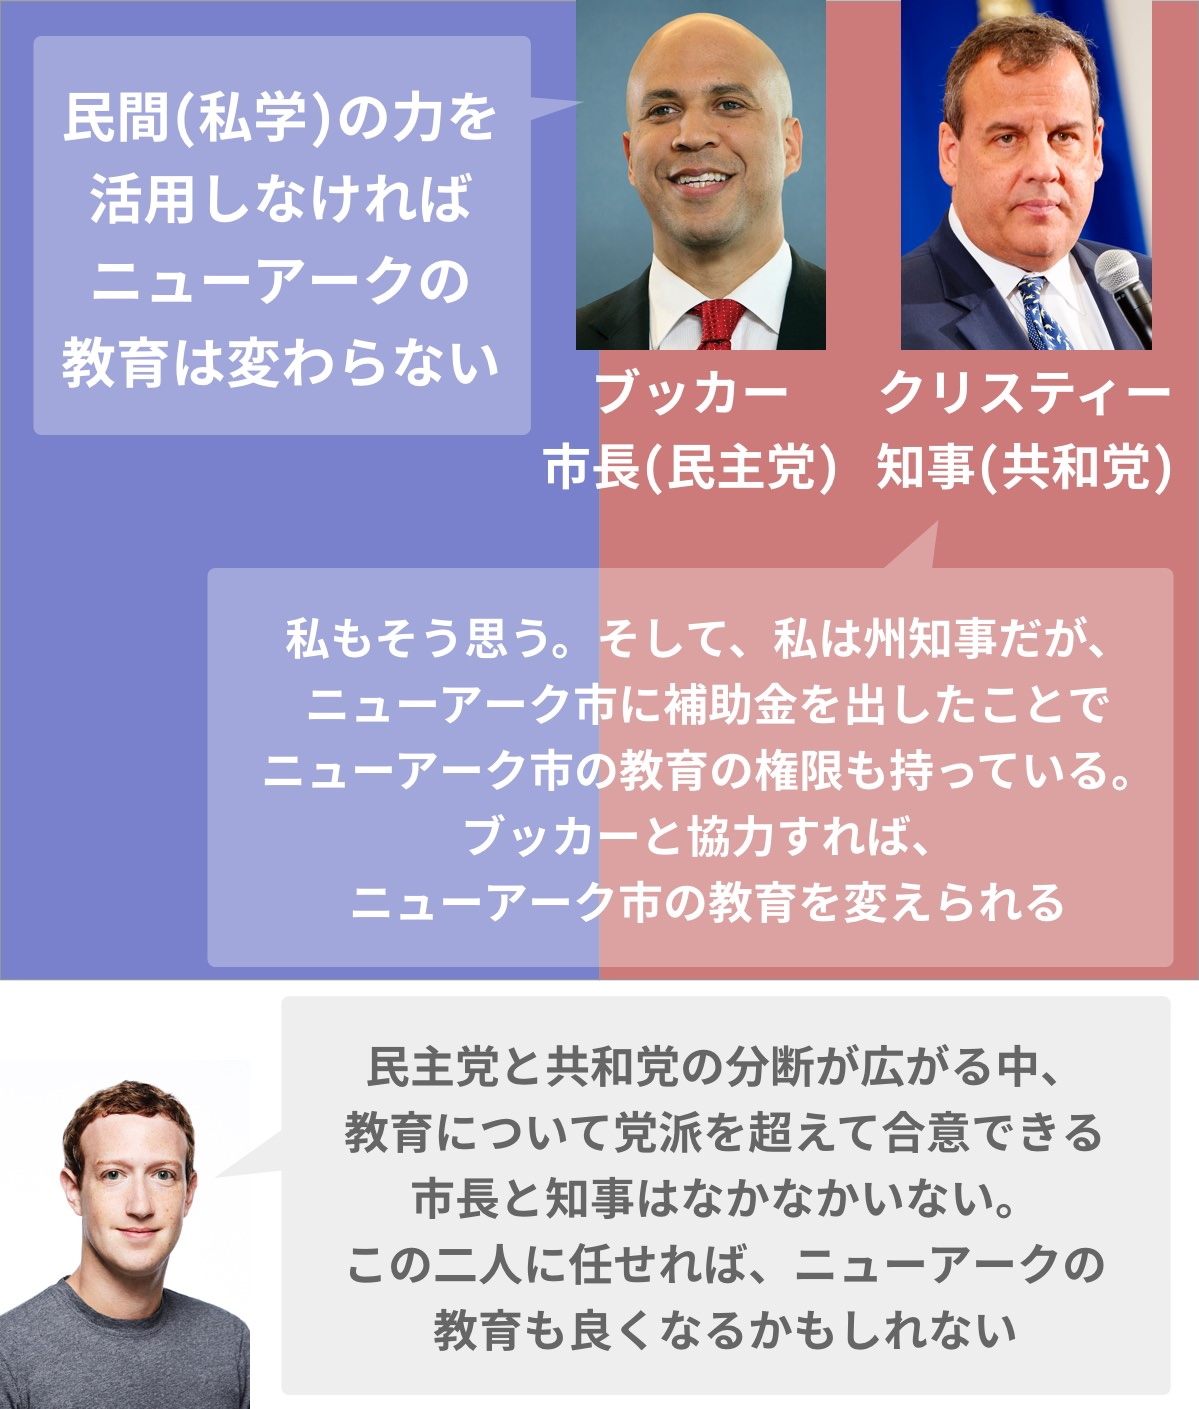
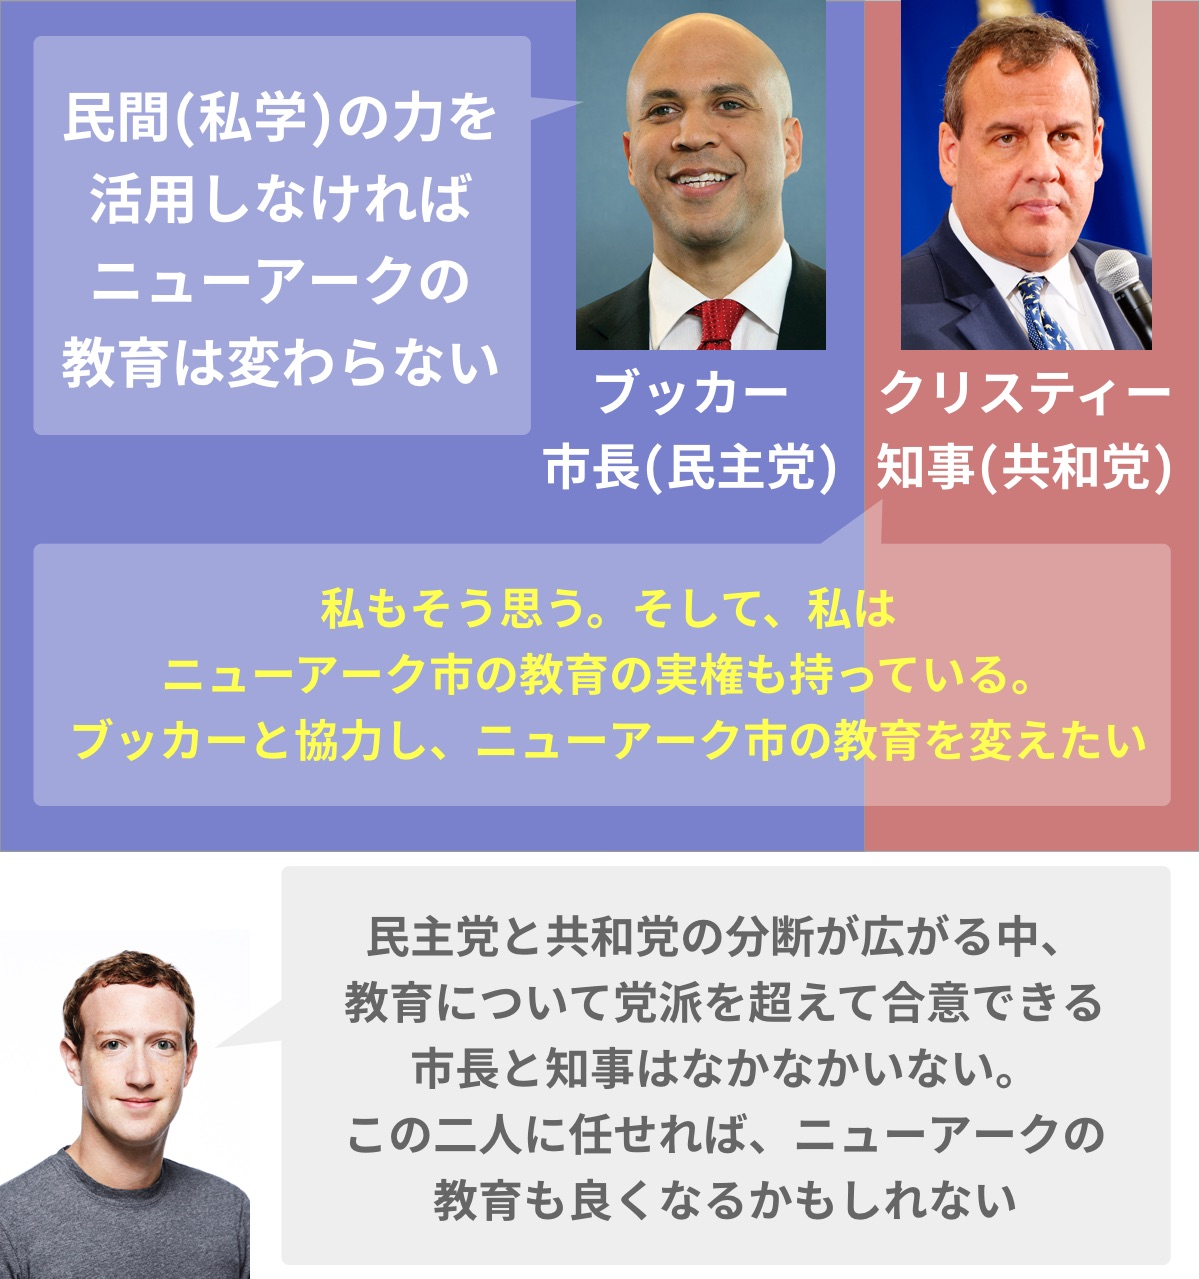
:pencil:

diff --git a/chapter-4.md b/chapter-4.md
@@ -53,17 +53,17 @@
 
 なぜ、クリスティーがザッカーバーグの寄付において、キーパーソンとなったのだろうか。
 
-### 教職員組合の敵・クリスティーが、ニューアークの教育行政の権限を掌握した
+### 教職員組合の敵・クリスティーが、ニューアークの教育行政の実権を掌握した
 
 2006年にニューアーク市長となったブッカーは、教育改革をしようにも孤軍奮闘だった。
 
-なぜか。ニューアークと、ニュージャージー州の他地域の教育格差があまりにも大きすぎたため、1995年に司法が介入して教育に[州の補助金がついた](http://www.nytimes.com/1995/04/14/nyregion/judge-orders-a-state-takeover-of-the-newark-school-district.html)。この補助金の代償として、ニューアーク市の教育行政の権限の大部分が、市から州に委譲された。つまり、ニューアークの教育を変えようにも、ニュージャージー州知事が首を縦に振らなければいけなかったのだ。
+なぜか。ニューアークと、ニュージャージー州の他地域の教育格差があまりにも大きすぎたため、1995年に司法が介入して教育に[州の補助金がついた](http://www.nytimes.com/1995/04/14/nyregion/judge-orders-a-state-takeover-of-the-newark-school-district.html)。この補助金の代償として、ニューアーク市の教育行政の権限の大部分が、市の教育委員会から州に委譲された。つまり、ニューアークの教育を変えようにも、ニュージャージー州知事が首を縦に振らなければいけなかったのだ。
 
 しかし、2006年から2010年までの州知事は、教育改革に消極的だった。彼は民主党・左派、すなわち「労働者の味方」側の人間で、教職員組合を[票田としていた](https://goo.gl/B7k68n#0pLbLynt)。だから、既得権益側である組合が嫌がるような改革はできなかったのだ。
 
 ブッカーも同じ民主党員だが、彼は「必要な改革を既得権益が拒むのはおかしい」という立場を取っていた。
 
-そんな中、2010年に共和党・右派のクリスティーが州知事になる。これによって、クリスティーがニューアークの教育行政の権限を掌握した。
+そんな中、2010年に共和党・右派のクリスティーが州知事になる。これによって、市の教育委員会に代わり、クリスティーがニューアークの教育行政の実権を掌握した。
 
 <p><figure>
   <img src="the-prize-draft-images/newark-newjersey.jpg" />
@@ -160,21 +160,21 @@
 
 ### ブッカーとクリスティーは、教育面では完全に合意していた
 
+アメリカの話に戻ると、最近は民主党のなかでも、教育では右派に近い人が出てきた。「貧しい家庭の支援も大事だが、民間(私学や慈善団体)も有効活用すべきだ」と考える、いわゆる「中道派」たちである。「いやいや、教育は民間に頼るべきではない」と考える「左派」とは少し距離がある。
+
+<p><figure>
+  <img src="the-prize-draft-images/left-right-2-5.png" />
+</figure></p>
+
 ここで、ブッカー市長とクリスティー知事の話に戻る。
 
 ブッカーは民主党(左派)の市長だが、教育に限っては、共和党(右派)に考え方が近い。ニューアークの役所と教育行政にうんざりしていた彼は、「民間(私立)の力を活用しないと、何も変わらない」と考えたのである。
 
 <p><figure>
-  <img src="the-prize-draft-images/left-right-3.jpg" />
+  <img src="the-prize-draft-images/left-right-3-5.jpg" />
 </figure></p>
 
-ブッカー市長はクリスティー知事と違う党に属しながら、教育面では完全に合意していた。
-
-いっぽうのクリスティーも、ブッカーの「ニューアークの教育を良くしたい」という思いに共感していた。また、クリスティーはニューアーク市に補助金を出したことで、州知事でありながらニューアーク市の教育の権限も持っていた。
-
-<p><figure>
-  <img src="the-prize-draft-images/newark-newjersey.jpg" />
-</figure></p>
+ブッカー市長はクリスティー知事と違う党に属しながら、教育面では完全に合意していた。いっぽう、教育の実権を握ったクリスティーも、ブッカーの「ニューアークの教育を良くしたい」という思いに共感していた。
 
 この二人の絆を、ニューアークへの寄付を検討していたザッカーバーグは[高く評価していた](https://goo.gl/B7k68n#rSjypp4L)。
 
